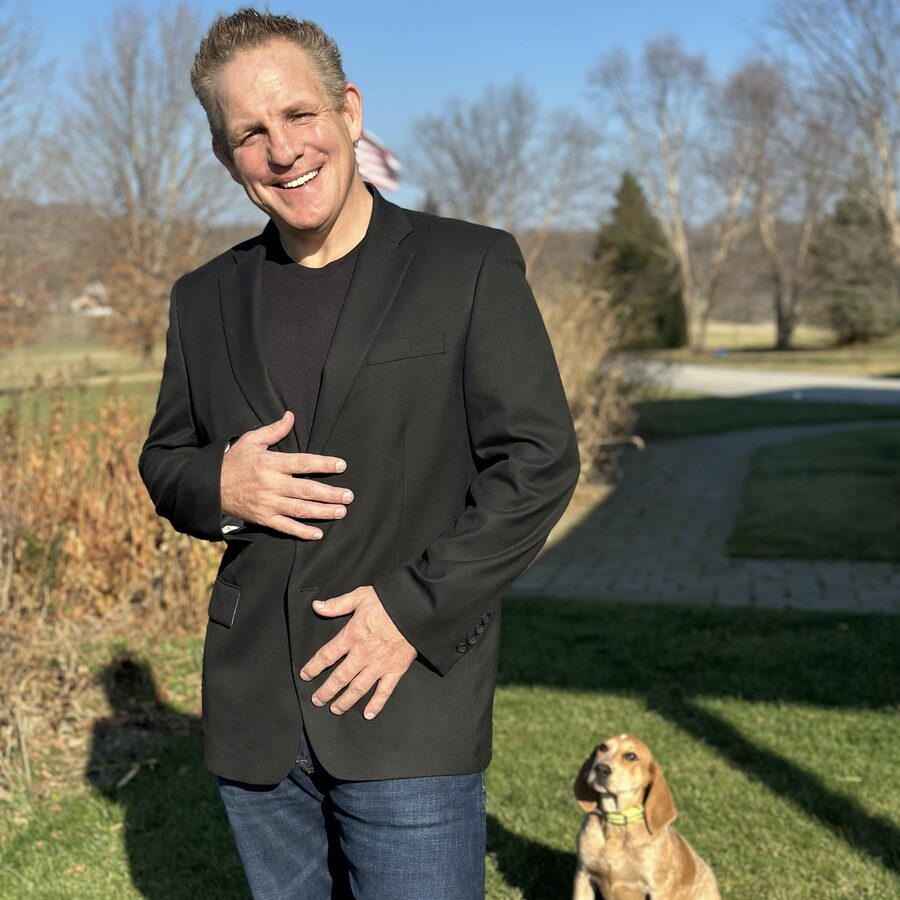
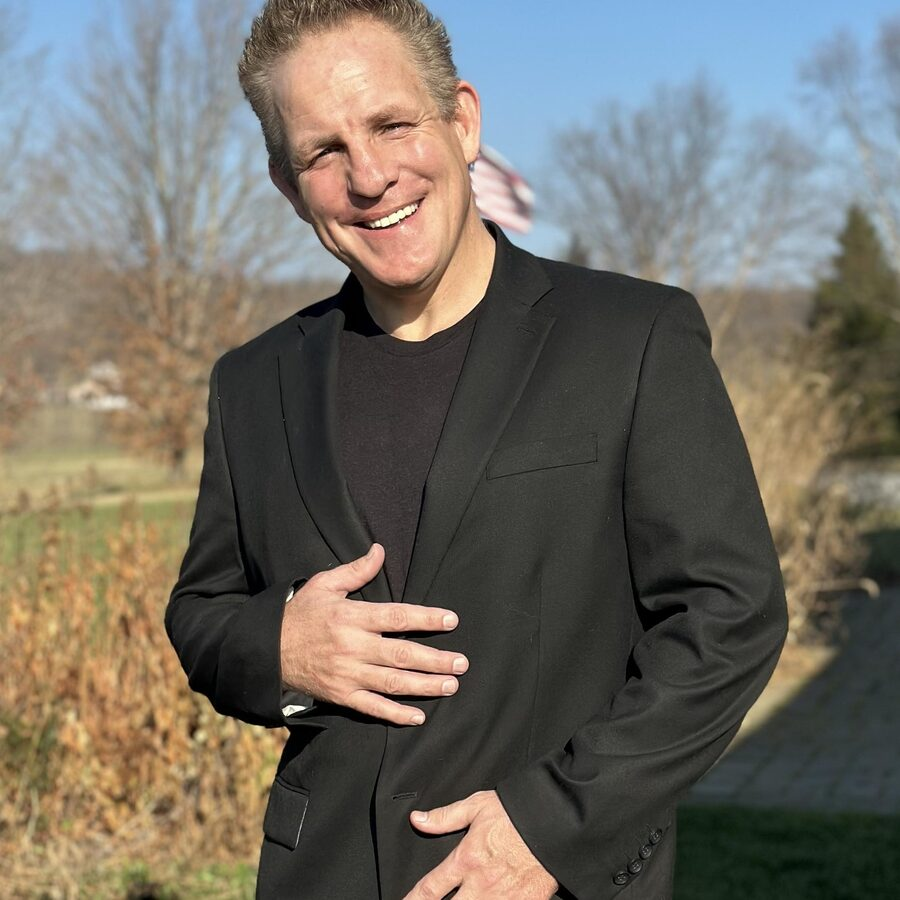
Re-crop founder portrait: more blazer, no puppy
The previous crop was a centered scale of the full 2048x2048 source,
which let the puppy peek into the bottom-right of the avatar circle.
Re-cropped the source to 1450x1450 from (50,60) before resizing —
this excludes the puppy entirely (puppy lives at x>1500 in the
original) while keeping Grant's head fully in frame and showing
more of the black blazer.

Object-position nudged from 50%/30% to 50%/28% to recenter the face
in the avatar circle for the new framing.

diff --git a/index.html b/index.html
@@ -515,7 +515,7 @@ section { padding: 100px 0; }
   width: 140px; height: 140px;
   border-radius: 50%;
   object-fit: cover;
-  object-position: 50% 30%;
+  object-position: 50% 28%;
   border: 2px solid var(--border-light);
   margin: -0.25rem 0 1.25rem;
   display: block;
